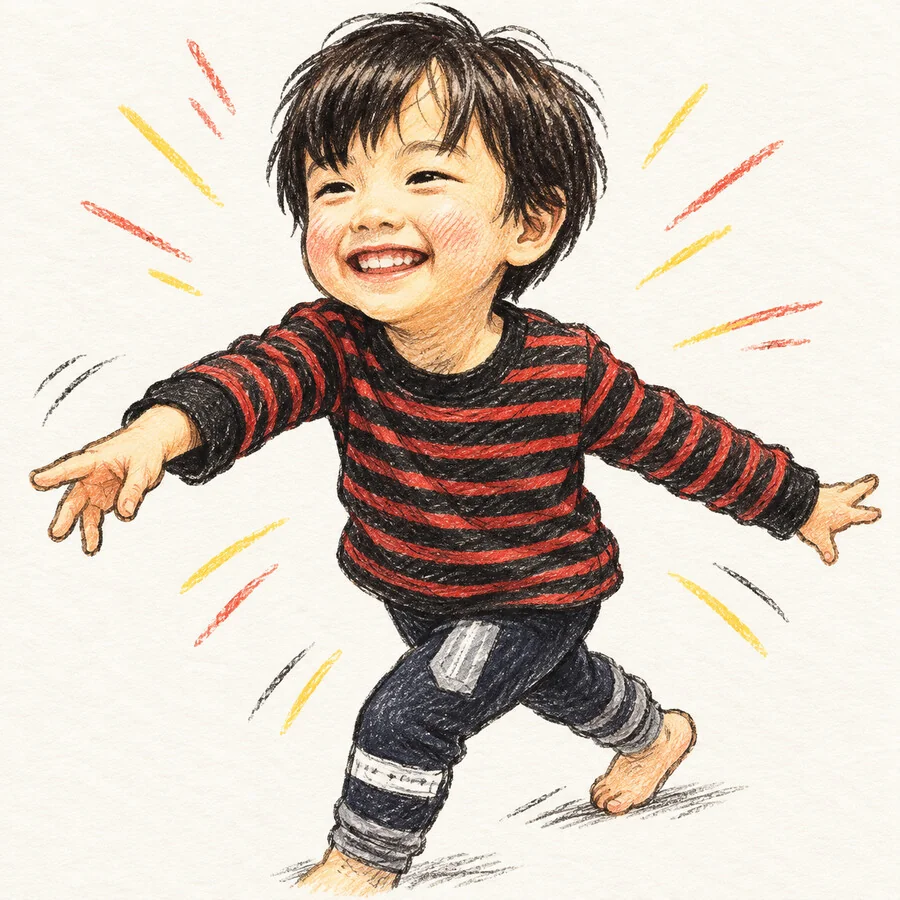
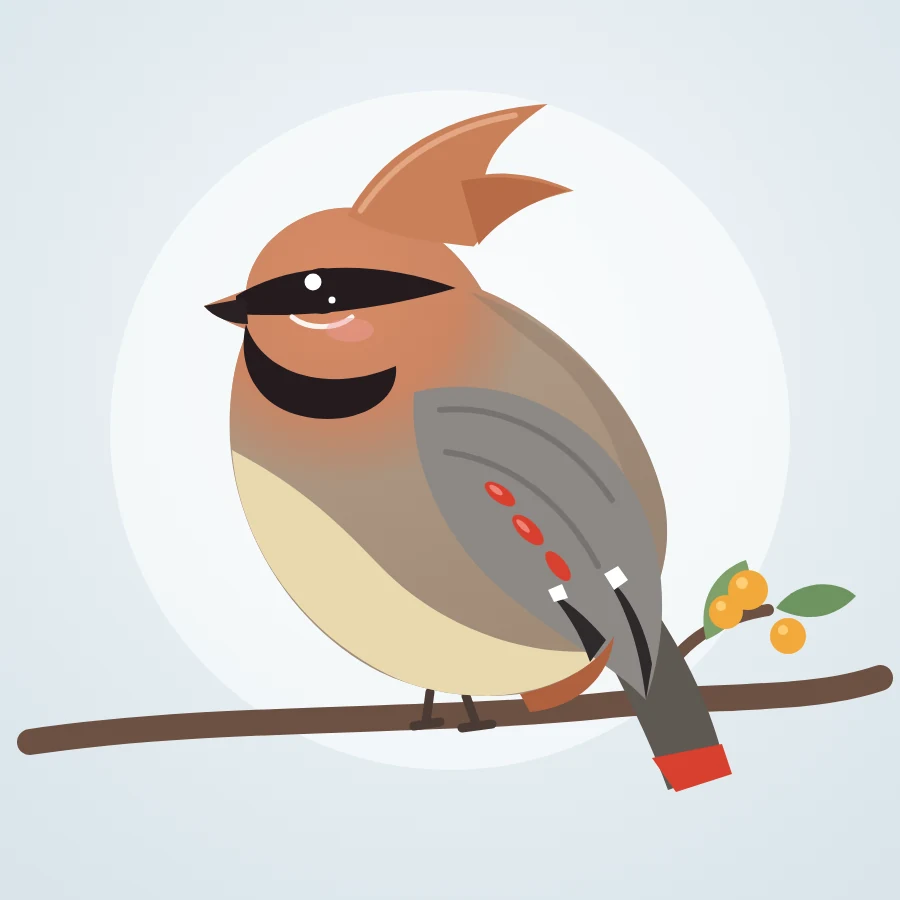
Add files via upload

diff --git a/index.html b/index.html
@@ -22,6 +22,6 @@
 <nav class="jp-tabs" aria-label="作品メニュー"><button class="jp-tab active" data-tab="episodes">話</button><button class="jp-tab" data-tab="comics">コミックス</button><button class="jp-tab" data-tab="info">作品情報</button></nav>
 <section id="episodes" class="jp-panel active"><div class="episode-sort-header"><span>全1話</span><div class="sort-switch episode-sort"><button type="button" class="sort-btn active" data-order="asc">1話から</button><span>|</span><button type="button" class="sort-btn" data-order="desc">最新話から</button></div></div><div class="episode-list"><a class="episode-row" href="episode1.html" data-ep="1"><img class="episode-thumb" src="images/thumbs/episode01.webp" alt="第1話 弱者こそ強者"><div class="episode-meta"><div class="episode-title">第1話 <span>弱者こそ強者</span></div><div class="episode-date" data-date="2026-11-21">2026年11月21日</div></div><div class="episode-read">読む</div></a></div></section>
 <section id="comics" class="jp-panel"><div class="comics-header"><strong>コミックス</strong><div class="comics-sort"><span class="active">新しい順</span></div></div><div class="volume-list"><a class="volume-tile" href="volume1.html"><img src="images/volumes/volume01-cover.webp" alt="アペックスキングネス 第1巻表紙"><div><strong>第1巻</strong><span>第1話を収録</span></div></a></div></section>
-<section id="info" class="jp-panel info-panel"><div class="work-intro"><div class="work-catch">アペックスキングネス</div><p class="work-summary">家族を失ったいとこの少女・底帝（ていてい）が、勝の家にやって来る。彼女と関わった者は、夜に死ぬという噂。眠りの先にあるのは、夢で死ねば現実でも死ぬ悪夢の世界。人類とは別の存在「亜人」たちが、それぞれの未来のために争っていた。弱者こそ強者。少女の戦いが始まる。</p><div class="author-profile"><img src="images/work/author-portrait.webp" alt="作者SAKUの漫画風自画像"><div><span>作者</span><strong>SAKU</strong></div></div></div><div class="info-section char-section"><h2>登場人物</h2><ul class="char-list"><li class="char-card is-main"><img src="images/characters/teitei.webp" alt="西京底帝" loading="lazy"><span class="char-role">主人公</span><strong class="char-name">西京底帝</strong><span class="char-reading">さいきょう ていてい</span><p class="char-desc">家族を失った9歳の少女。悪夢の世界で戦う。</p><div class="char-cameos"></div></li><li class="char-card"><img src="images/characters/katsu.webp" alt="西京勝" loading="lazy"><strong class="char-name">西京勝</strong><span class="char-reading">さいきょう かつ</span><p class="char-desc">底帝のいとこ。自信家で完璧な18歳。</p><p class="char-note">別の作品では「まさる」</p><div class="char-cameos"><span class="char-cameo-head">ほかの作品でも会える</span><a class="char-cameo" href="https://saku3298.github.io/ogre-kingdom/" target="_blank" rel="noopener"><img src="images/related/ogre-kingdom-cover.webp" alt=""><span>オーガキングダム</span><i aria-hidden="true">›</i></a></div></li><li class="char-card"><img src="images/characters/tsuyoshi.webp" alt="西京強" loading="lazy"><strong class="char-name">西京強</strong><span class="char-reading">さいきょう つよし</span><p class="char-desc">勝の弟。最強でカッコいい男にあこがれている。</p><div class="char-cameos"><span class="char-cameo-head">ほかの作品でも会える</span><a class="char-cameo" href="https://saku3298.github.io/ogre-kingdom/" target="_blank" rel="noopener"><img src="images/related/ogre-kingdom-cover.webp" alt=""><span>オーガキングダム</span><i aria-hidden="true">›</i></a><a class="char-cameo" href="https://saku3298.github.io/saku-works/works/tsuyoku-naritai-bonjin-tachi/" target="_blank" rel="noopener"><img src="images/related/tsuyoku-naritai-bonjin-tachi-cover.webp" alt=""><span>強くなりたい凡人達</span><i aria-hidden="true">›</i></a></div></li><li class="char-card"><img src="images/characters/metasura.webp" alt="メタスラちゃん" loading="lazy"><strong class="char-name">メタスラちゃん</strong><p class="char-desc">夢の世界の夢人。現実の姿はまだ謎。</p><div class="char-cameos"></div></li></ul></div><div class="info-section"><h2>同じ作者の作品</h2><a class="author-work-card" href="https://saku3298.github.io/rikarikai/" target="_blank" rel="noopener"><img src="images/related/rikarikai-cover.webp" alt="リカリカイ 第1巻表紙"><div><div class="author-work-title">リカリカイ</div><div class="author-work-author">作者：SAKU</div><span class="author-work-label">コミックス</span></div></a><a class="author-work-card" href="https://saku3298.github.io/ogre-kingdom/" target="_blank" rel="noopener"><img src="images/related/ogre-kingdom-cover.webp" alt="オーガキングダム 第8巻表紙"><div><div class="author-work-title">オーガキングダム</div><div class="author-work-author">作者：YUURI・SAKU</div><span class="author-work-label">コミックス</span></div></a><a class="author-work-card" href="https://saku3298.github.io/ringo-chan/" target="_blank" rel="noopener"><img src="images/related/ringo-chan-cover.webp" alt="りんごちゃん 第1巻表紙"><div><div class="author-work-title">りんごちゃん</div><div class="author-work-author">作者：れ。</div><span class="author-work-label">コミックス</span></div></a><a class="author-work-card" href="https://saku3298.github.io/saku-works/" target="_blank" rel="noopener"><img src="images/work/saku-works-cover.webp" alt="SAKU作品集"><div><div class="author-work-title">SAKU作品集</div><div class="author-work-author">短編マンガをまとめた作品集</div><span class="author-work-label">作品集</span></div></a></div></section>
+<section id="info" class="jp-panel info-panel"><div class="work-intro"><div class="work-catch">アペックスキングネス</div><p class="work-summary">家族を失ったいとこ・底帝（ていてい）が、勝の家にやって来る。底帝と関わった者は、夜に死ぬという噂。眠りの先にあるのは、夢で死ねば現実でも死ぬ悪夢の世界。人類とは別の存在「亜人」たちが、それぞれの未来のために争っていた。弱者こそ強者。底帝の戦いが始まる。</p><div class="author-profile"><img src="images/work/author-portrait.webp" alt="作者SAKUの漫画風自画像"><div><span>作者</span><strong>SAKU</strong></div></div></div><div class="info-section char-section"><h2>登場人物</h2><ul class="char-list"><li class="char-card is-main"><img src="images/characters/teitei.webp" alt="西京底帝" loading="lazy"><span class="char-role">主人公</span><strong class="char-name">西京底帝</strong><span class="char-reading">さいきょう ていてい</span><p class="char-desc">家族を失った9歳。悪夢の世界で戦う。</p><div class="char-cameos"></div></li><li class="char-card"><img src="images/characters/katsu.webp" alt="西京勝" loading="lazy"><strong class="char-name">西京勝</strong><span class="char-reading">さいきょう かつ</span><p class="char-desc">底帝のいとこ。自信家で完璧な高校生。</p><p class="char-note">別の作品では「まさる」</p><div class="char-cameos"><span class="char-cameo-head">ほかの作品でも会える</span><a class="char-cameo" href="https://saku3298.github.io/ogre-kingdom/" target="_blank" rel="noopener"><img src="images/related/ogre-kingdom-cover.webp" alt=""><span>オーガキングダム</span><i aria-hidden="true">›</i></a></div></li><li class="char-card"><img src="images/characters/tsuyoshi.webp" alt="西京強" loading="lazy"><strong class="char-name">西京強</strong><span class="char-reading">さいきょう つよし</span><p class="char-desc">勝の弟。最強でカッコいい男にあこがれている。</p><div class="char-cameos"><span class="char-cameo-head">ほかの作品でも会える</span><a class="char-cameo" href="https://saku3298.github.io/ogre-kingdom/" target="_blank" rel="noopener"><img src="images/related/ogre-kingdom-cover.webp" alt=""><span>オーガキングダム</span><i aria-hidden="true">›</i></a><a class="char-cameo" href="https://saku3298.github.io/saku-works/works/tsuyoku-naritai-bonjin-tachi/" target="_blank" rel="noopener"><img src="images/related/tsuyoku-naritai-bonjin-tachi-cover.webp" alt=""><span>強くなりたい凡人達</span><i aria-hidden="true">›</i></a></div></li><li class="char-card"><img src="images/characters/metasura.webp" alt="メタスラちゃん" loading="lazy"><strong class="char-name">メタスラちゃん</strong><p class="char-desc">夢の世界の夢人。現実の姿はまだ謎。</p><div class="char-cameos"></div></li></ul></div><div class="info-section"><h2>同じ作者の作品</h2><a class="author-work-card" href="https://saku3298.github.io/rikarikai/" target="_blank" rel="noopener"><img src="images/related/rikarikai-cover.webp" alt="リカリカイ 第1巻表紙"><div><div class="author-work-title">リカリカイ</div><div class="author-work-author">作者：SAKU</div><span class="author-work-label">コミックス</span></div></a><a class="author-work-card" href="https://saku3298.github.io/ogre-kingdom/" target="_blank" rel="noopener"><img src="images/related/ogre-kingdom-cover.webp" alt="オーガキングダム 第8巻表紙"><div><div class="author-work-title">オーガキングダム</div><div class="author-work-author">作者：YUURI・SAKU</div><span class="author-work-label">コミックス</span></div></a><a class="author-work-card" href="https://saku3298.github.io/ringo-chan/" target="_blank" rel="noopener"><img src="images/related/ringo-chan-cover.webp" alt="りんごちゃん 第1巻表紙"><div><div class="author-work-title">りんごちゃん</div><div class="author-work-author">作者：れ。</div><span class="author-work-label">コミックス</span></div></a><a class="author-work-card" href="https://saku3298.github.io/saku-works/" target="_blank" rel="noopener"><img src="images/work/saku-works-cover.webp" alt="SAKU作品集"><div><div class="author-work-title">SAKU作品集</div><div class="author-work-author">短編マンガをまとめた作品集</div><span class="author-work-label">作品集</span></div></a></div></section>
 </div><footer>© SAKU / アペックスキングネス ｜ <a href="https://saku3298.github.io/saku-works/" target="_blank" rel="noopener" style="text-decoration:underline">SAKU作品集</a></footer>
 <script src="js/top.js?v=121a3d1b"></script></body></html>
